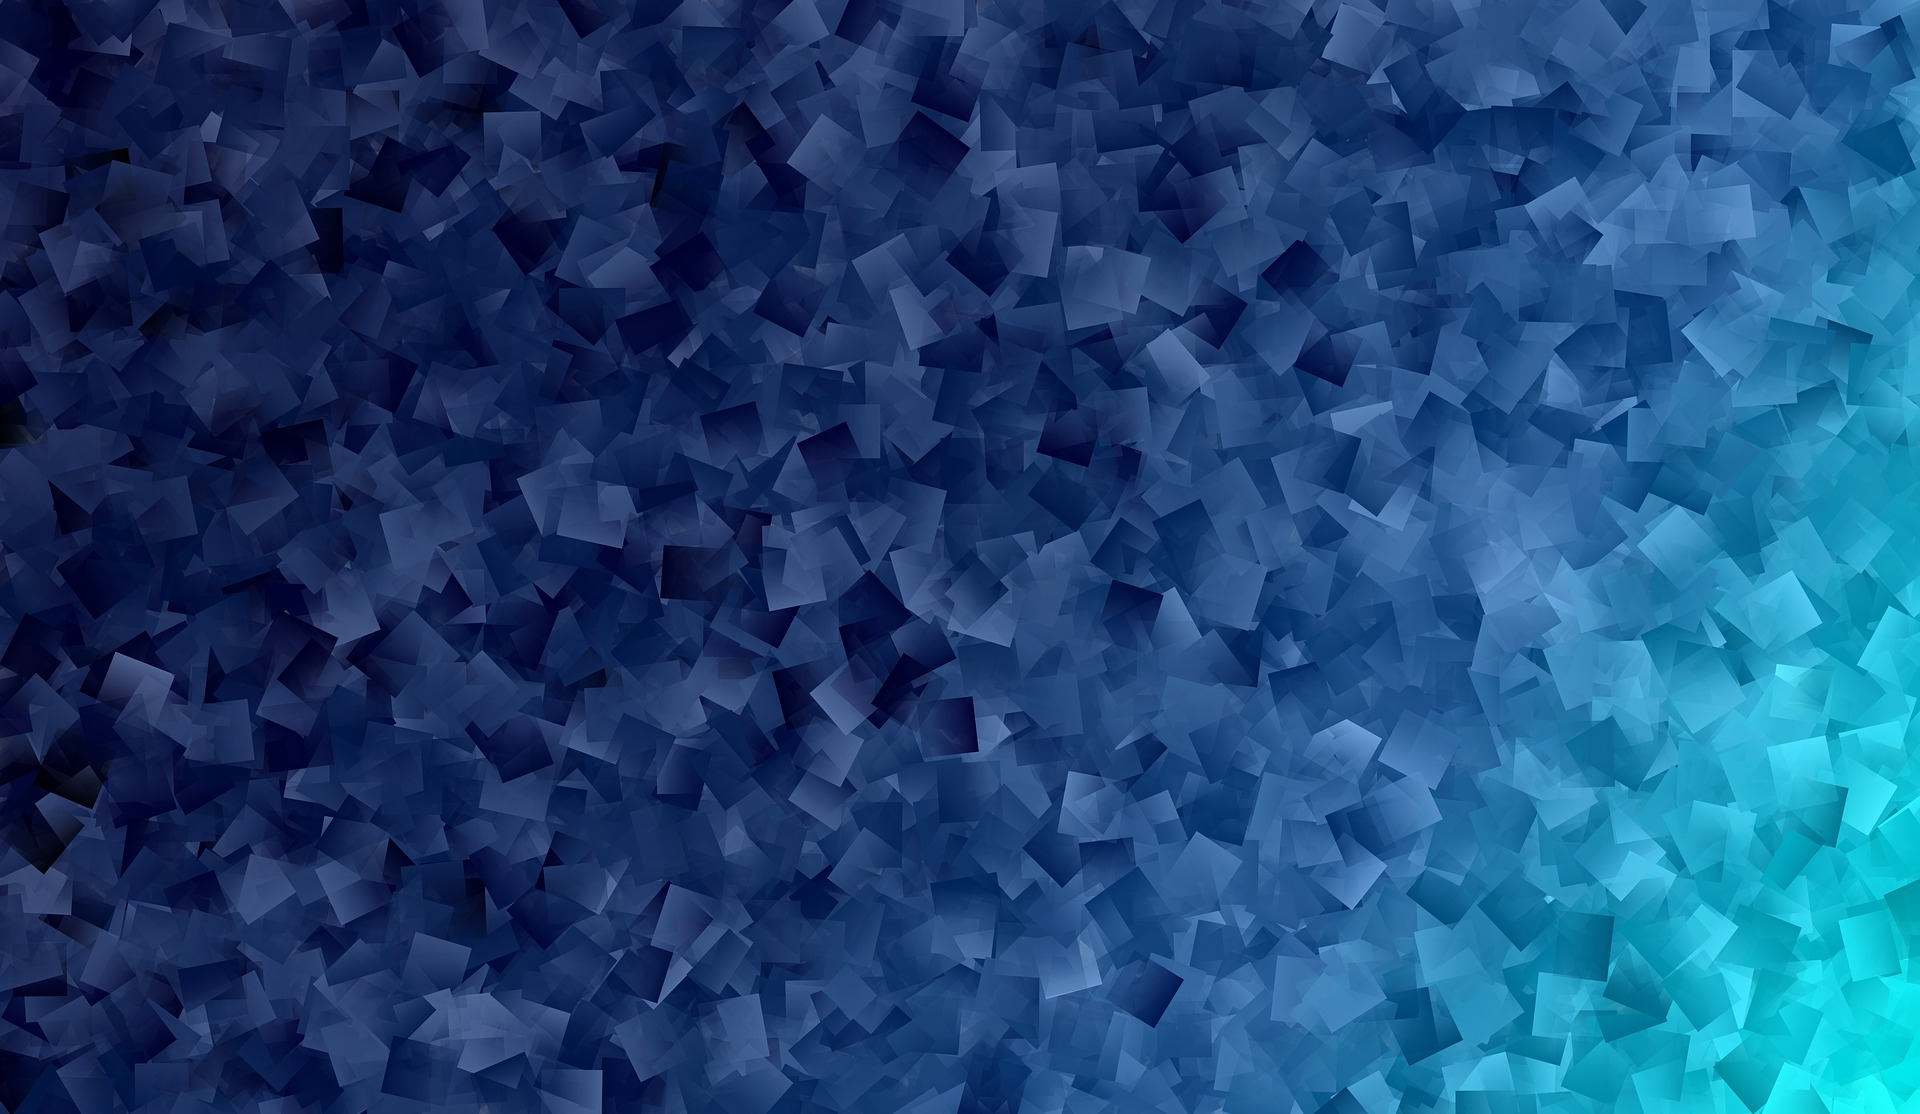
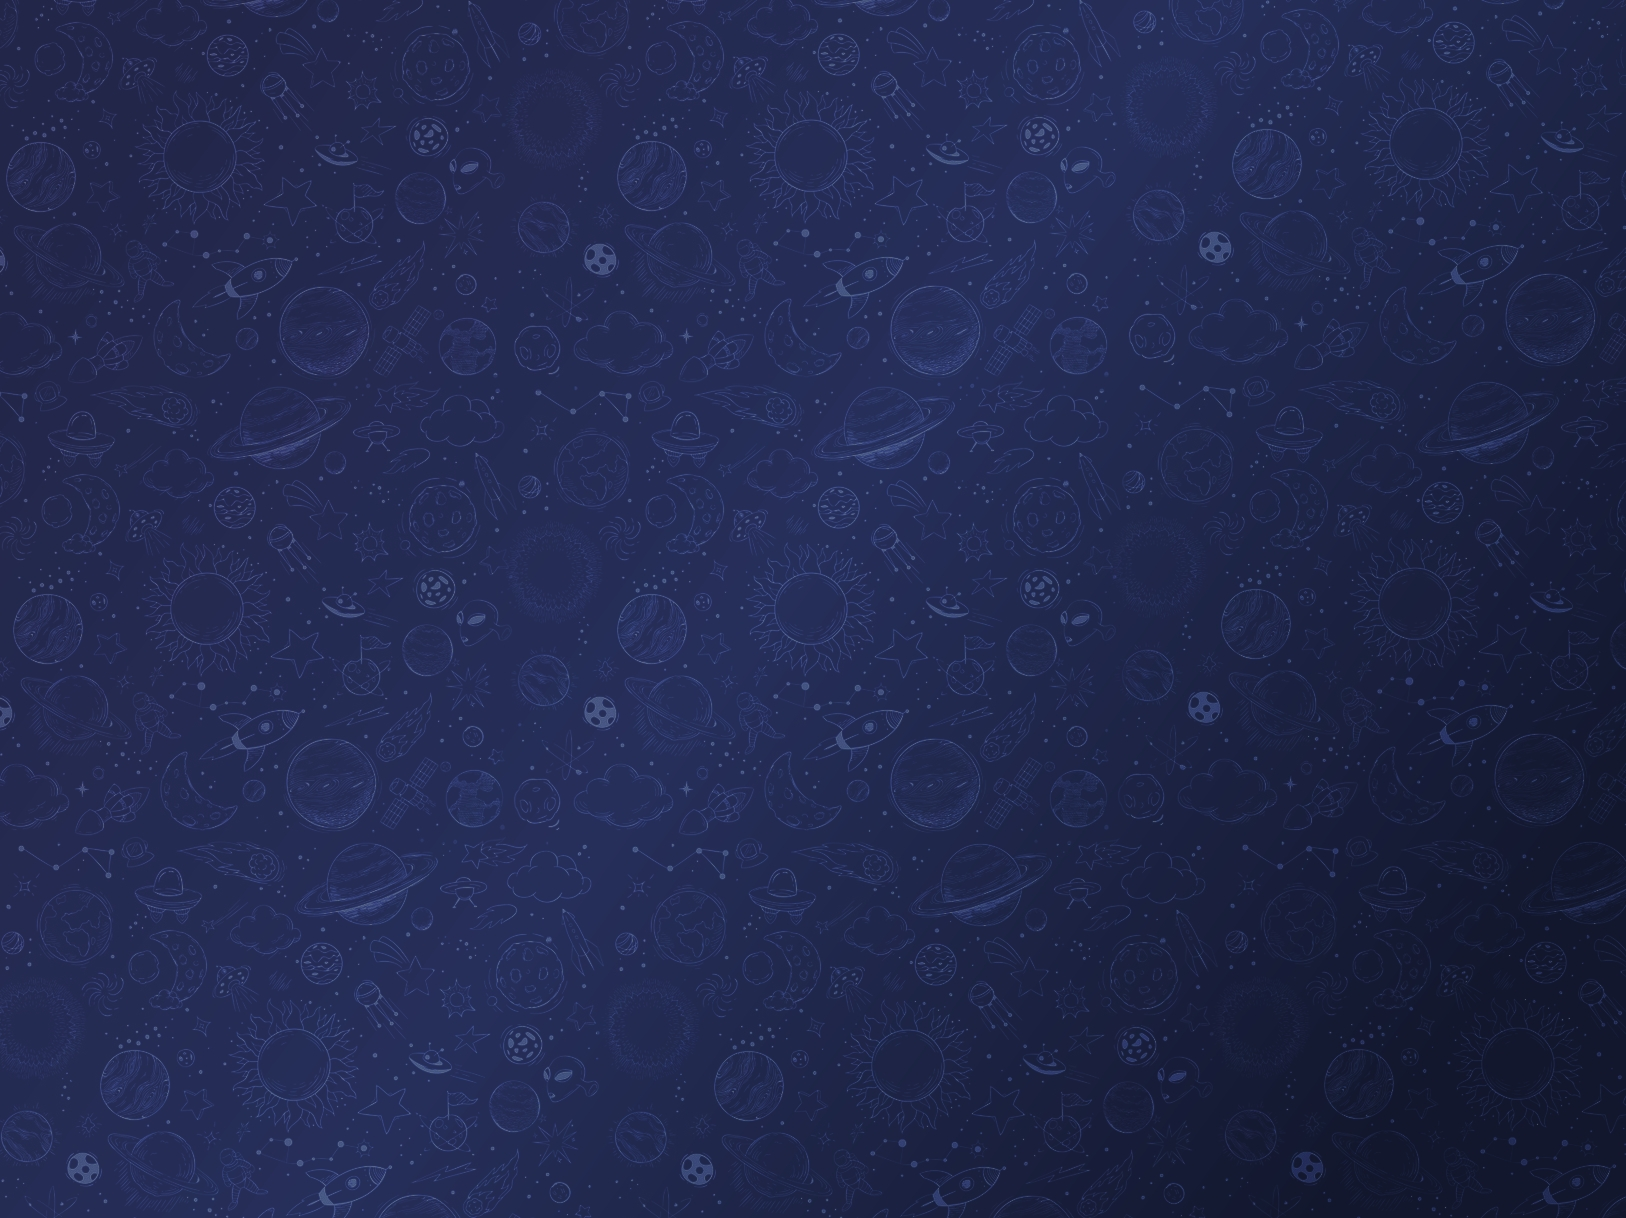
change chat area background
richard: yep

diff --git a/src/libtego_ui/ui/qml/StylePreferences.qml b/src/libtego_ui/ui/qml/StylePreferences.qml
@@ -112,6 +112,7 @@ ColumnLayout {
             Layout.minimumWidth: 200
             model: [
                 "Blue",
+                "Blue-Squares",
                 "Purple",
                 "Purple2",
                 "Purple-Blue",
